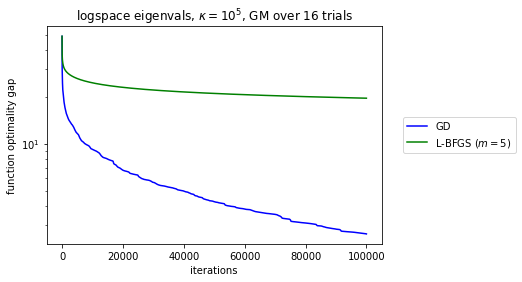
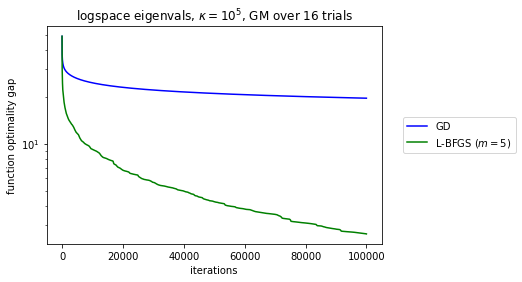
flip axes

diff --git a/_posts/2020-11-01-lbfgs-vs-gd.md b/_posts/2020-11-01-lbfgs-vs-gd.md
@@ -430,7 +430,7 @@ def trial(seed):
     lbsnp[:len(lbs)] = lbs
     gdsnp[:len(gds)] = gds
     
-    return lbs, gds
+    return lbsnp, gdsnp
 
 lbs_gm = np.zeros(maxit)
 gds_gm = np.zeros(maxit)
@@ -442,8 +442,8 @@ lbs_gm /= trials
 gds_gm /= trials
 
 matrix_name = r'logspace eigenvals,  \\(\kappa = 10^{{{kappa\_log10}}} \\), GM over {trials} trials'.format(kappa_log10=kappa_log10, trials=trials)
-plt.semilogy(np.exp(lbs_gm), c='b', label='GD')
-plt.semilogy(np.exp(gds_gm), c=color,
+plt.semilogy(np.exp(gds_gm), c='b', label='GD')
+plt.semilogy(np.exp(lbs_gm), c=color,
              label=r'L-BFGS ( \\(m = {memory} \\))'.format(memory=memory))
 plt.legend(bbox_to_anchor=(1.05, 0.5), loc='center left')
 plt.xlabel('iterations')
@@ -452,12 +452,7 @@ plt.title(matrix_name)
 plt.show()
 ```
 
-    2020-11-01 18:50:11,941	INFO resource_spec.py:212 -- Starting Ray with 246.68 GiB memory available for workers and up to 109.72 GiB for objects. You can adjust these settings with ray.init(memory=<bytes>, object_store_memory=<bytes>).
-    2020-11-01 18:50:12,174	WARNING services.py:923 -- Redis failed to start, retrying now.
-    2020-11-01 18:50:12,424	WARNING services.py:1151 -- Failed to start the dashboard. The dashboard requires Python 3 as well as 'pip install aiohttp grpcio'.
-
 ![png](/assets/2020-11-01-lbfgs-vs-gd_files/2020-11-01-lbfgs-vs-gd_13_1.png)
-
 
 
 [Try the notebook out yourself.](/assets/2020-11-01-lbfgs-vs-gd.ipynb)
